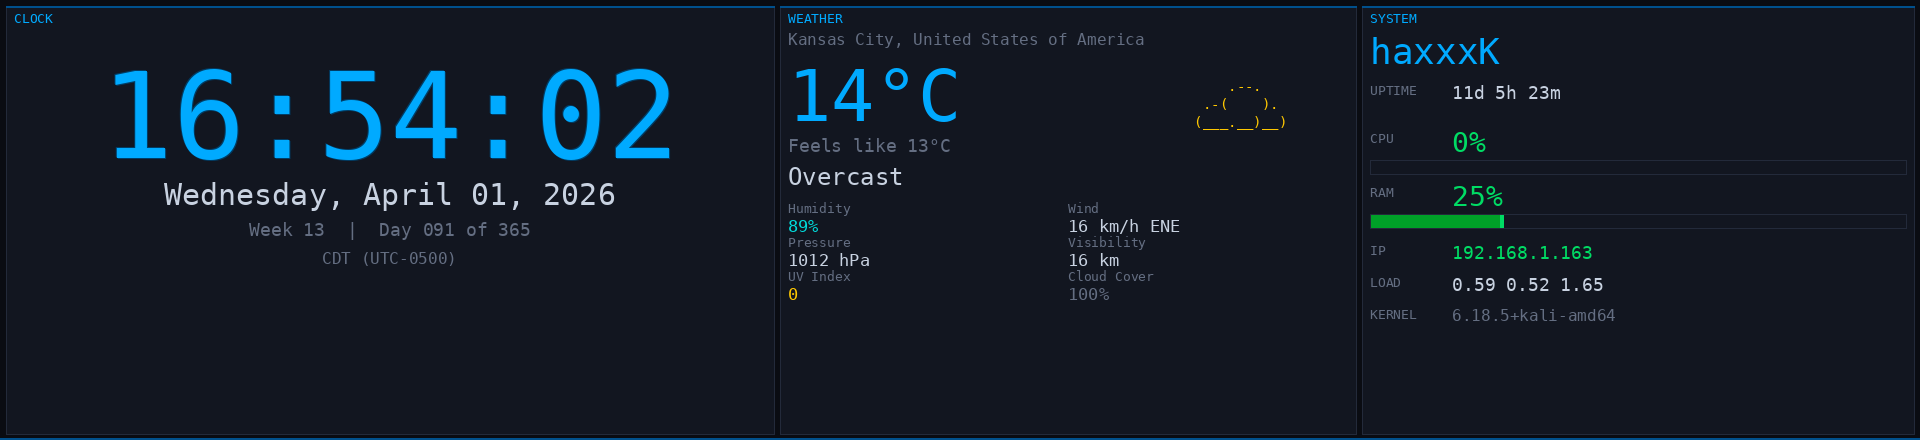
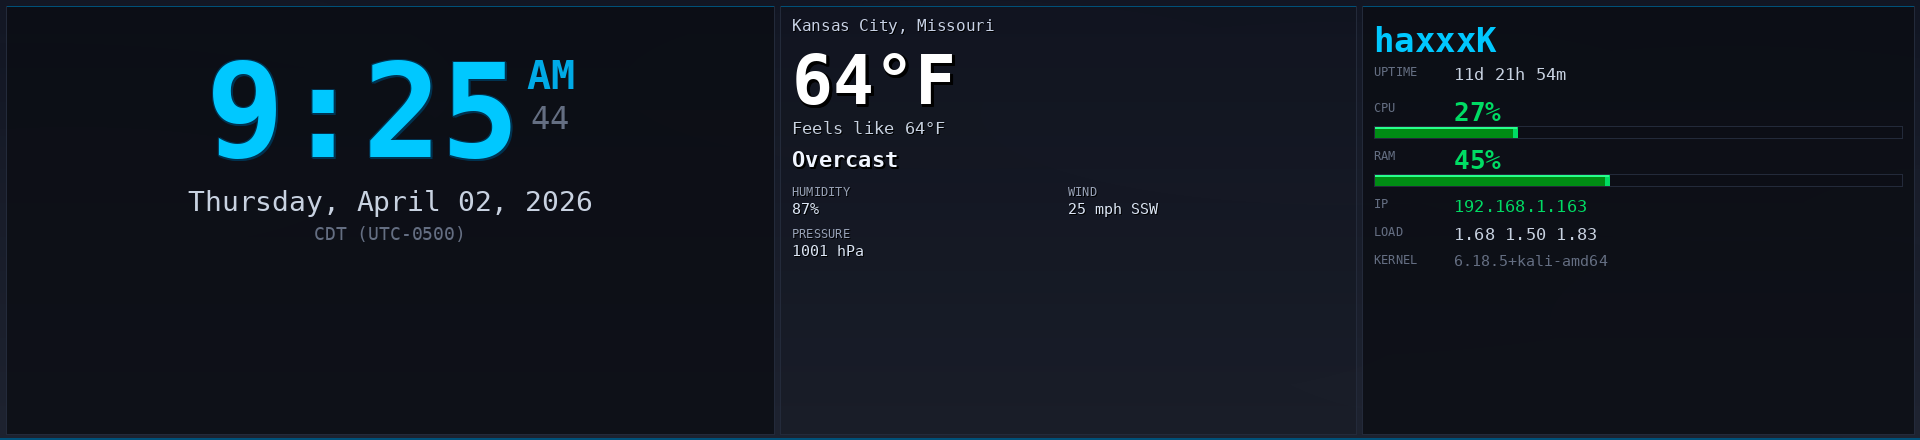
Update README: 60fps URL mode, --screenshot, performance table
- URL mode now documented as 60fps real-time via CDP screencast
- Added --screenshot command to options table and usage
- Added Website Mode section explaining CDP screencast architecture
- Added Designing Pages for the Bar Display guidelines
- Added Performance table with benchmarked fps for each mode
- Added websocket-client to dependencies
- Added --url black screen troubleshooting
- Updated clock description (animated weather scenes, 12hr)
- Fresh clock screenshot with new weather renderer
- Removed outdated Xvfb references

diff --git a/README.md b/README.md
@@ -19,7 +19,7 @@ These cheap USB-C bar monitors ship with Windows-only drivers and have **zero Li
 **Docker Monitor** — container status, CPU/memory bars, network I/O:
 ![docker](screenshots/docker_mon.png)
 
-**Clock + Weather** — time, wttr.in weather, system quick stats:
+**Clock + Weather** — animated weather scenes, 12hr time, system stats:
 ![clock](screenshots/clock.png)
 
 **Network Monitor** — active connections, state breakdown, process names:
@@ -44,7 +44,7 @@ cd artinchip-linux
 sudo ./install.sh
 ```
 
-The installer handles dependencies, udev rules, and puts `tinyscreen` in your PATH.
+The installer handles dependencies, udev rules, and puts `tinyscreen` in your PATH. No sudo required after install.
 
 ## Display Modes
 
@@ -54,7 +54,7 @@ The installer handles dependencies, udev rules, and puts `tinyscreen` in your PA
 |------|------|-------------|
 | **System Monitor** | `--sysmon` | CPU per-core bars, temps, GPU, memory, disk, swap, network sparklines |
 | **Crypto Ticker** | `--ticker` | Live BTC/ETH/SOL/DOGE/ADA/DOT/LINK/AVAX prices with 24h change |
-| **Clock + Weather** | `--clock` | Large clock, wttr.in weather, system quick stats |
+| **Clock + Weather** | `--clock` | 12hr clock, animated weather scenes (fog, rain, sun, snow, storms), system stats |
 | **Matrix Rain** | `--matrix` | Digital rain effect with real syslog data overlay |
 | **Audio Visualizer** | `--visualizer` | FFT spectrum analyzer from PulseAudio/PipeWire capture |
 | **Now Playing** | `--nowplaying` | MPRIS media info (Spotify, etc.) with progress bar |
@@ -67,7 +67,7 @@ The installer handles dependencies, udev rules, and puts `tinyscreen` in your PA
 
 | Mode | Flag | Description |
 |------|------|-------------|
-| **Website** | `--url URL` | Live virtual display + headless browser |
+| **Website** | `--url URL` | **60fps real-time** via headless Chromium CDP screencast |
 | **YouTube** | `--video URL` | Fetches up to 4K source, scales to display |
 | **Local Video** | `--video FILE` | Any format ffmpeg supports, `--loop` to repeat |
 | **Static Image** | `--image FILE` | Display any image file |
@@ -80,6 +80,11 @@ tinyscreen --sysmon
 tinyscreen --matrix
 tinyscreen --ticker
 tinyscreen --docker
+tinyscreen --clock
+
+# Display a website (60fps real-time rendering)
+tinyscreen --url https://your-dashboard.example.com/
+tinyscreen --url http://egon.local:8420/ --rotate 180
 
 # Rotate through modes (30 seconds each)
 tinyscreen --show all --delay 30
@@ -87,17 +92,19 @@ tinyscreen --show all --delay 30
 # Rotate specific modes
 tinyscreen --show sysmon matrix ticker docker --delay 20
 
-# Media
-tinyscreen --url https://your-dashboard.example.com/
+# Play videos
 tinyscreen --video "https://www.youtube.com/watch?v=dQw4w9WgXcQ"
 tinyscreen --video /path/to/video.mp4 --loop
 
 # Rotate the display output
 tinyscreen --sysmon --rotate 180
-tinyscreen --show all --rotate 90
 
 # Just run — uses config.yml defaults
 tinyscreen
+
+# Screenshot current URL render
+tinyscreen --screenshot
+tinyscreen --screenshot /path/to/output.png
 
 # Control
 tinyscreen --status
@@ -117,9 +124,29 @@ All commands run in the background by default. Add `--fg` to run in foreground.
 | `-q N` | JPEG quality 1-100 (default: auto) |
 | `--loop` | Loop video playback |
 | `--fg` | Run in foreground (don't daemonize) |
+| `--screenshot [FILE]` | Capture current URL render to PNG |
 | `--off` | Stop the running instance |
 | `--status` | Show current status |
 | `--test` | Show test pattern |
+
+## Website Mode (--url)
+
+The `--url` mode renders websites at **60fps in real-time** using:
+
+1. **Headless Chromium** with Chrome DevTools Protocol (CDP)
+2. **CDP Page.startScreencast** — Chromium pushes every rendered frame via WebSocket
+3. Frames are JPEG-encoded by Chromium and sent directly to the USB display
+
+This means CSS animations, JavaScript updates, progress bars, and live dashboard data all render smoothly on the bar display. The page's JavaScript keeps running continuously — it's a real browser, not screenshots.
+
+### Designing Pages for the Bar Display
+
+The browser viewport is exactly **1920x440 pixels**. Key rules:
+- Everything must fit in 440px height — no scrolling
+- Use horizontal multi-column layouts (3-5 columns)
+- Large text: body 16-20px, headers 24-36px, key metrics 48-72px
+- Minimal padding (4-8px) — every pixel of height matters
+- No navbars, footers, or UI chrome
 
 ## Configuration
 
@@ -181,18 +208,31 @@ These ArtInChip USB displays require a **proprietary RSA authentication handshak
 
 The protocol was reverse-engineered from the `aic-render` userspace binary and the `aic_drm_ud` kernel module source.
 
+### Performance
+
+| Metric | Value |
+|--------|-------|
+| USB send rate | 265 fps (JPEG q85, 20KB/frame) |
+| Display refresh | 60 Hz (hardware limit) |
+| URL mode (CDP screencast) | 60 fps |
+| CDP screenshot polling | ~9 fps |
+| Sysmon / Docker / Netmon | 2 fps |
+| Matrix / News / Ticker | 30 fps |
+| Audio Visualizer | 60 fps |
+| USB bandwidth used | ~5 MB/s of ~35 MB/s available |
+
 ## Dependencies
 
 Installed automatically by `install.sh`:
 
 - **Python 3.10+** with: `pyusb`, `Pillow`, `cryptography`, `PyYAML`
-- **ffmpeg** — video decoding and X11 capture
-- **Xvfb** — virtual framebuffer for URL mode
 - **Chromium or Google Chrome** — headless browser for URL mode
+- **ffmpeg** — video decoding
 - **yt-dlp** *(optional)* — YouTube video support
 - **numpy** *(optional)* — audio visualizer FFT
 - **feedparser** *(optional)* — RSS news crawl
-- **requests** *(optional)* — crypto ticker, weather
+- **requests** — crypto ticker, weather, CDP communication
+- **websocket-client** — CDP WebSocket for URL mode
 
 ## Troubleshooting
 
@@ -210,13 +250,13 @@ Replug the USB cable, or run: `sudo udevadm control --reload-rules && sudo udeva
 
 Make sure the `aic_drm_ud` kernel module isn't loaded: `lsmod | grep aic`. If loaded, blacklist it: `echo "blacklist aic_drm_ud" | sudo tee /etc/modprobe.d/blacklist-aic.conf`
 
-### NVIDIA + ArtInChip kernel module conflict
+### --url mode shows black screen
 
-If you installed ArtInChip's official `AiCast` driver and Xorg shows "Configure crtc failed" — that's the NVIDIA driver refusing to share pixmaps. **tinyscreen** avoids this by bypassing the kernel DRM layer entirely.
+Make sure no old chromium processes are holding port 9222: `pkill -f 'chromium.*9222'` then retry.
 
 ### Video playback is choppy
 
-Lower quality (`-q 50`) or framerate (`--fps 15`). USB 2.0 Hi-Speed (480 Mbps) is the bottleneck.
+Lower quality (`-q 50`) or framerate (`--fps 15`). USB 2.0 Hi-Speed (480 Mbps) is the bottleneck for video.
 
 ## Uninstall
 
@@ -251,12 +291,12 @@ Auth command (20 bytes, same struct):
 ```
 /opt/tinyscreen/
 ├── tinyscreen.py      # main driver + daemon + all mode dispatch
-├── tinyscreen         # shell wrapper (handles sudo)
+├── tinyscreen         # shell wrapper
 ├── sysmon.py          # system monitor renderer
 ├── config.yml         # default configuration
 ├── modes/
 │   ├── ticker.py      # crypto price ticker
-│   ├── clock.py       # clock + weather + system info
+│   ├── clock.py       # clock + animated weather + system info
 │   ├── matrix.py      # matrix digital rain
 │   ├── visualizer.py  # audio spectrum analyzer
 │   ├── nowplaying.py  # MPRIS now playing
@@ -273,9 +313,8 @@ Auth command (20 bytes, same struct):
 PRs welcome! Especially for:
 - Testing with other ArtInChip display models (0e01, 0e04, 0e05)
 - New display modes
-- H.264 frame encoding (device supports `media_format=0x11`)
 - Wayland compositor support
-- Direct RGB565 mode for higher frame rates
+- Custom dashboard templates for the bar form factor
 
 ## License
 
@@ -288,4 +327,4 @@ MIT License. See [LICENSE](LICENSE).
 
 ---
 
-**Keywords**: ArtInChip Linux driver, USB bar monitor Linux, ZHAOCAILIN Linux driver, 33c3:0e02 Linux, 1920x440 USB display Linux, stretched bar LCD Linux, AiCast Linux alternative, USB portable monitor Linux driver, ArtInChip RISC-V display, cheap USB monitor Linux, system monitor bar display, hardware dashboard Linux, crypto ticker display, matrix rain display, docker monitor display
+**Keywords**: ArtInChip Linux driver, USB bar monitor Linux, ZHAOCAILIN Linux driver, 33c3:0e02 Linux, 1920x440 USB display Linux, stretched bar LCD Linux, AiCast Linux alternative, USB portable monitor Linux driver, ArtInChip RISC-V display, cheap USB monitor Linux, system monitor bar display, hardware dashboard Linux, crypto ticker display, matrix rain display, docker monitor display, CDP screencast display
